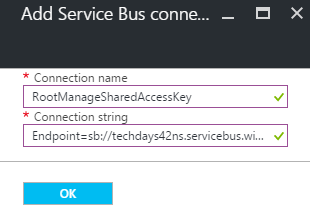
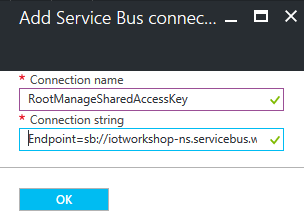
first function

diff --git a/Azure.md b/Azure.md
@@ -285,7 +285,7 @@ Follow these steps to create an Azure Function, triggered by the Event Hub, insi
 
     ![alt tag](img/azure-function-app-settings.png)
  
-6. As you can see, there are lot's of extra features regarding development, deployment and management. 
+6. As you can see, there are lot's of extra features regarding development, deployment and management
 
     ![alt tag](img/azure-function-app-update.png)
 
@@ -303,7 +303,7 @@ Follow these steps to create an Azure Function, triggered by the Event Hub, insi
 
     ![alt tag](img/azure-function-app-eventhubtrigger.png)
 
-10. At the bottom of the page (use the scrollbar of the page), you have to fill in the field 'Name your function'. Change `EventHubTriggerCSharp1` into `TechDaysEventHubTriggerFunction`
+10. At the bottom of the selected template page (use the scrollbar of the current page), you have to fill in the field 'Name your function'. Change `EventHubTriggerCSharp1` into `IoTWorkshopEventHubFunction`
 11. In the field 'Event Hub name' you will have to pass the *remembered* name of the Event Hub eg. `iotworkshop-eh` *Note: in lower case*
 12. The 'Event Hub connection' field can be filled by pressing the `new` link
 13. A blade with an empty list of connection strings will be shown. Press `Add a connection string`
@@ -316,7 +316,7 @@ Follow these steps to create an Azure Function, triggered by the Event Hub, insi
     ![alt tag](img/azure-function-app-connectionstring.png)
 
 16. Select `OK`
-17. The Connection string is now entered in the right field
+17. The Connection string is now filled in into the corresponding field (Give the portal a moment to check the settings)
 
     ![alt tag](img/azure-function-app-eventhubtrigger-new.png)
 
@@ -324,27 +324,33 @@ Follow these steps to create an Azure Function, triggered by the Event Hub, insi
 
     ![alt tag](img/azure-portal-create.png)
 
-19. The function and trigger are saved. The develop page is shown. In the middle, you will see the function in the 'Code' panel. The 'Logs' panel works like a trace log. 
-20. Update the code a bit, change the string in the log.Info() call eg.
+19. The function and trigger are saved. The develop page is shown. In the middle, you will see the function in the 'Code' panel
+20. Press the `Logs` button to open the pane which shows some basic logging
+
+    ![alt tag](img/azure-function-app-eventhubtrigger-logs.png)
+
+21. A 'Logs' panel is shown. This 'Logs' panel works like a trace log.
+22. Update the code a bit, change the string in the log.Info() trace call eg.
 
     ```csharp
     using System;
-    
+
     public static void Run(string myEventHubMessage, TraceWriter log)
     {
-        log.Info($"My TechDays trigger function processed this message: {myEventHubMessage}");
+        log.Info($"IoT Workshop function triggered by message: {myEventHubMessage}");
     }
     ```
 
-21. Select `Save`. The changed C# code will be recompiled immediately
-22. In the 'Logs' panel, just below 'Code', `verify the outcome` of the compilation
+21. Select `Save`. The changed C# code will be recompiled immediately *Note: you can press 'save and run', this will actually run the function, but an empty test will passed (check out the 'Test' option to the right for more info)*
+22. A In the 'Logs' panel, just below 'Code', `verify the outcome` of the compilation
 
     ```
-    2016-09-25T12:23:35.380 Script for function 'TechDaysEventHubTriggerFunction' changed. Reloading.
-    2016-09-25T12:23:35.427 Compilation succeeded.
+    2017-01-08T00:14:24.981 Script for function 'IoTWorkshopEventHubFunction' changed. Reloading.
+    2017-01-08T00:14:25.122 Compilation succeeded.
+
     ```
 
-This completes the Azure function and trigger.
+Now we are confident, the Azure function and trigger are available.
 
 ## Receiving telemetry in the Azure Function
 
